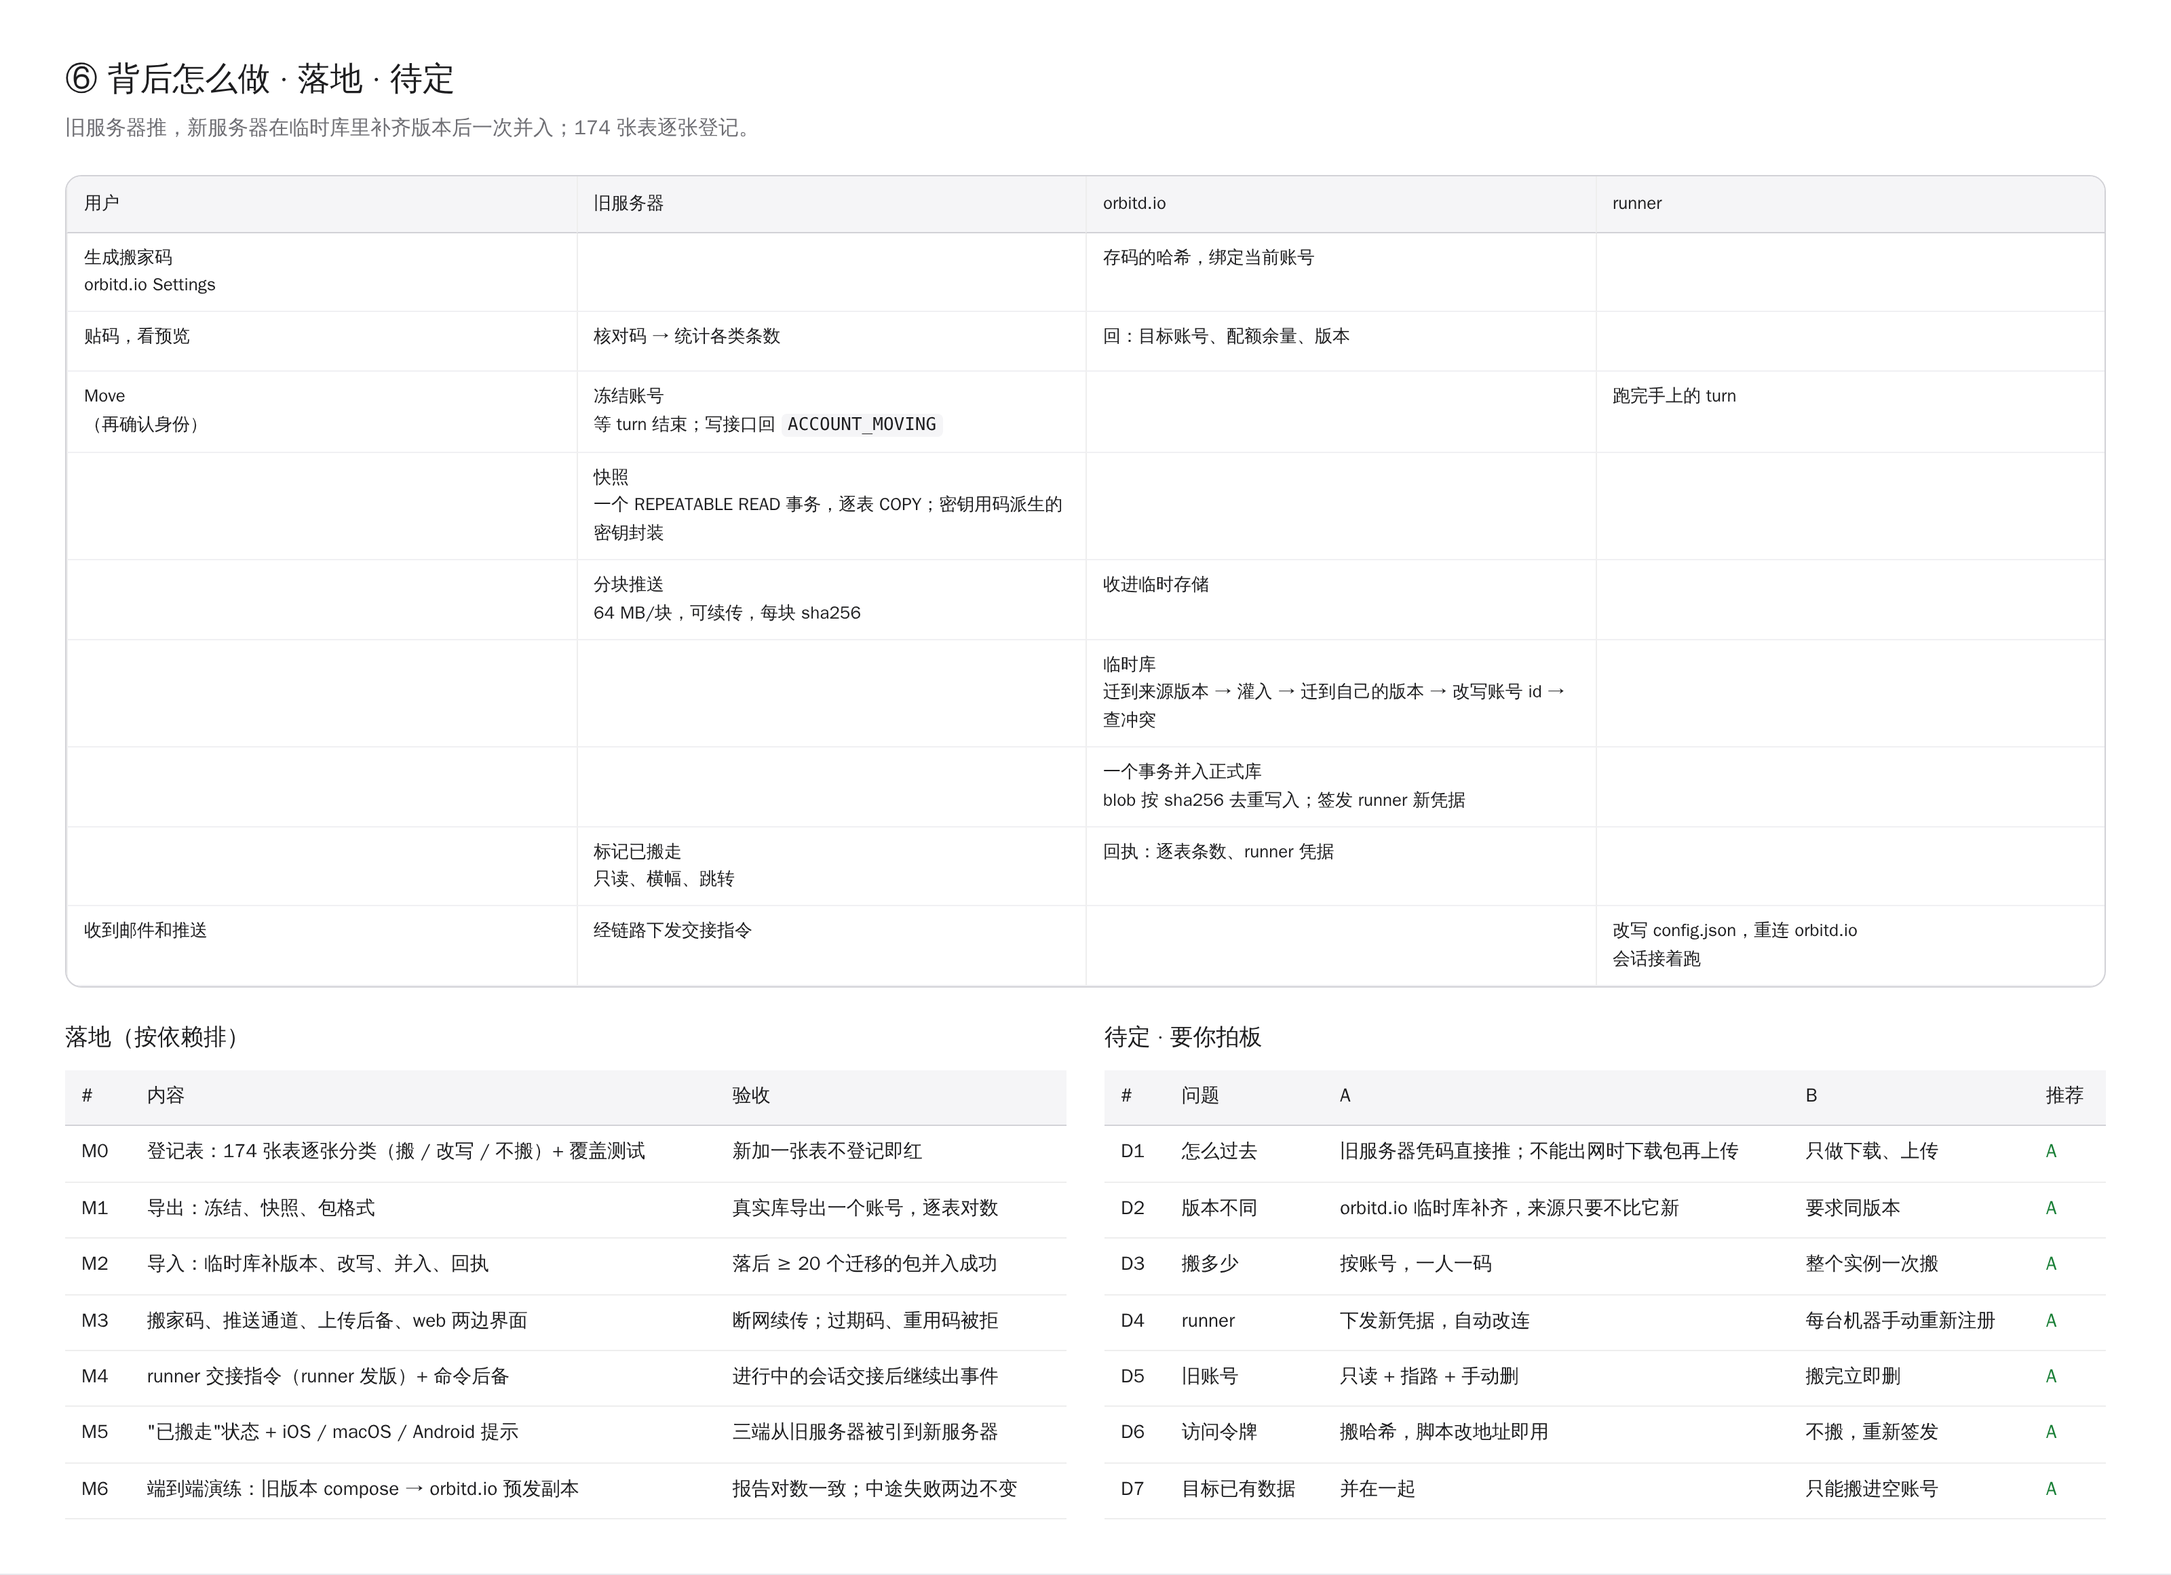
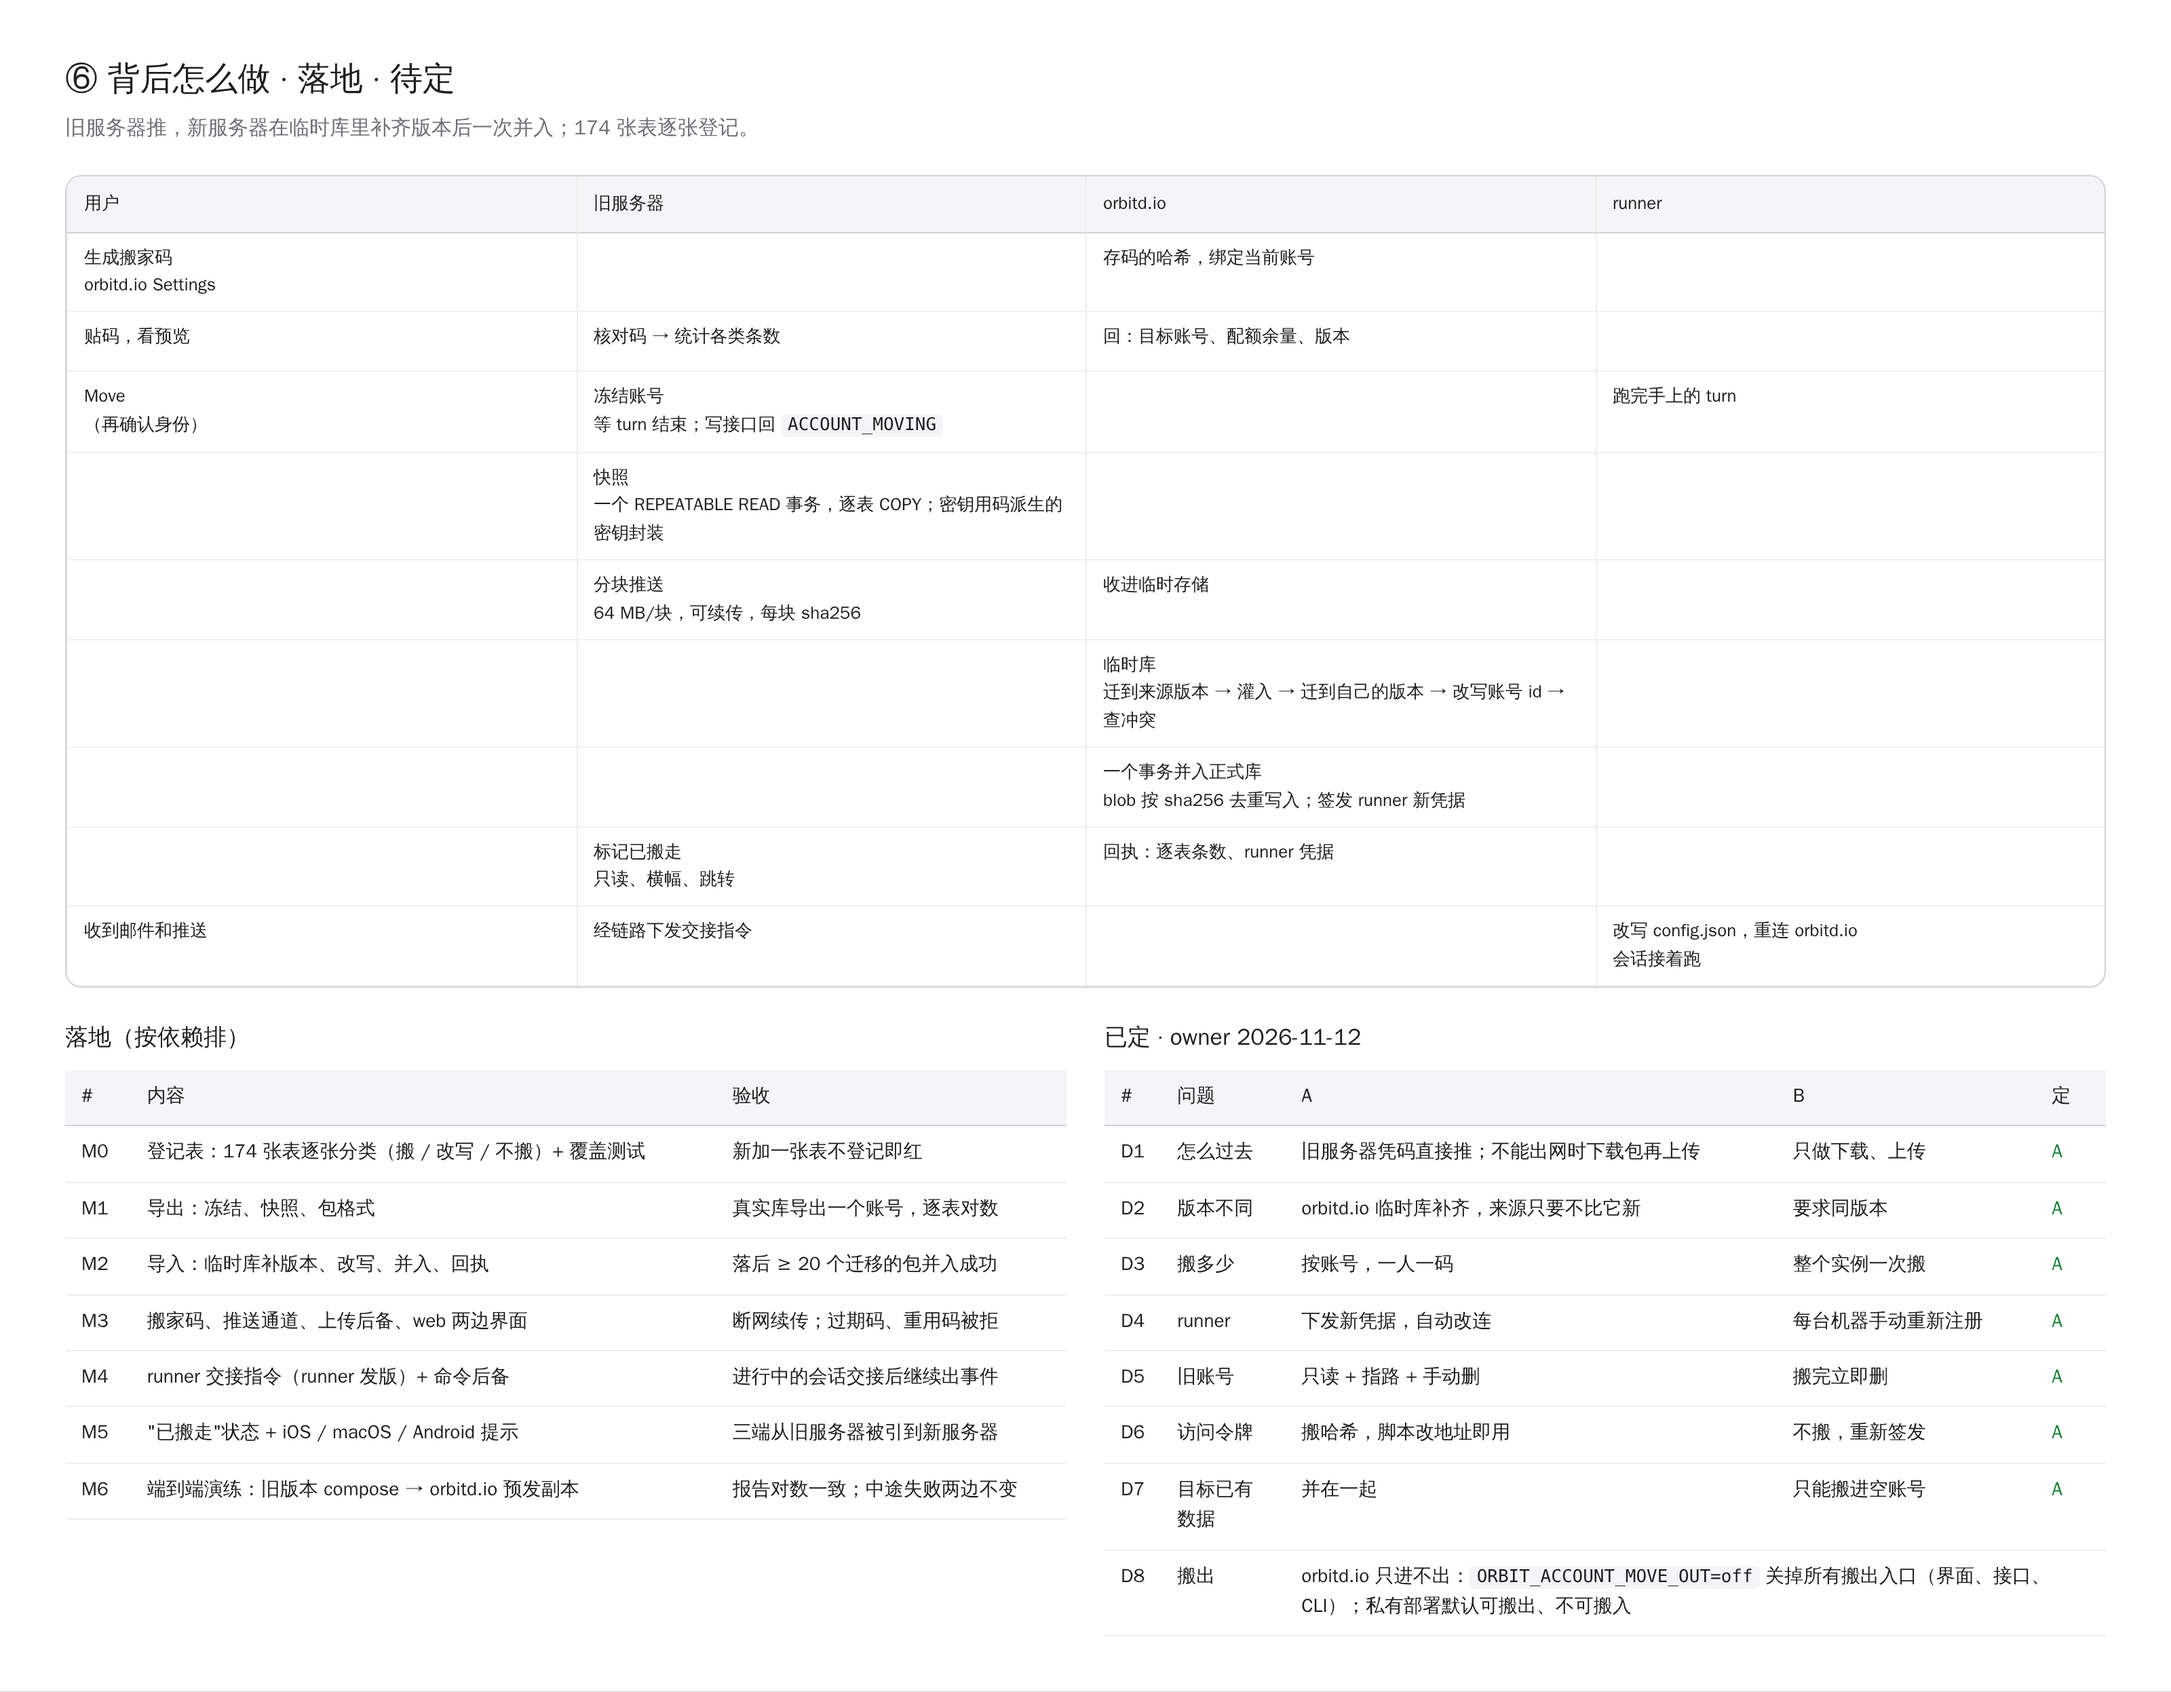
docs: account move decisions, orbitd.io takes moves in but never out

diff --git a/docs/mocks/account-move/01-board.html b/docs/mocks/account-move/01-board.html
@@ -336,9 +336,9 @@
       </table>
     </div>
     <div>
-      <h3>待定 · 要你拍板</h3>
+      <h3>已定 · owner 2026-11-12</h3>
       <table class="b-t">
-        <tr><th>#</th><th>问题</th><th>A</th><th>B</th><th>推荐</th></tr>
+        <tr><th>#</th><th>问题</th><th>A</th><th>B</th><th>定</th></tr>
         <tr><td>D1</td><td>怎么过去</td><td>旧服务器凭码直接推；不能出网时下载包再上传</td><td>只做下载、上传</td><td class="b-rec">A</td></tr>
         <tr><td>D2</td><td>版本不同</td><td>orbitd.io 临时库补齐，来源只要不比它新</td><td>要求同版本</td><td class="b-rec">A</td></tr>
         <tr><td>D3</td><td>搬多少</td><td>按账号，一人一码</td><td>整个实例一次搬</td><td class="b-rec">A</td></tr>
@@ -346,6 +346,7 @@
         <tr><td>D5</td><td>旧账号</td><td>只读 + 指路 + 手动删</td><td>搬完立即删</td><td class="b-rec">A</td></tr>
         <tr><td>D6</td><td>访问令牌</td><td>搬哈希，脚本改地址即用</td><td>不搬，重新签发</td><td class="b-rec">A</td></tr>
         <tr><td>D7</td><td>目标已有数据</td><td>并在一起</td><td>只能搬进空账号</td><td class="b-rec">A</td></tr>
+        <tr><td>D8</td><td>搬出</td><td colspan="3"><b>orbitd.io 只进不出</b>：<code>ORBIT_ACCOUNT_MOVE_OUT=off</code> 关掉所有搬出入口（界面、接口、CLI）；私有部署默认可搬出、不可搬入</td></tr>
       </table>
     </div>
   </div>

diff --git a/docs/account-move-design.md b/docs/account-move-design.md
@@ -1,6 +1,6 @@
 # 把账号从私有部署搬到 orbitd.io（设计稿）
 
-> 状态：草稿，2026-11-12，待 owner 拍板 §9 的 D1–D7。本文只做设计，不改代码。
+> 状态：已定，2026-11-12。owner 定 §9 的 D1–D7 全部按推荐（A），并追加一条约束：**orbitd.io 不允许把数据搬到外部站点**（§2.4、D8）。本文只做设计，不改代码。
 > 效果图：`docs/mocks/account-move/01-board.html` 与 `01-board-1.png` … `01-board-6.png`。
 > 相关：`self-hosting.md`、`postgres-backup-restore.md`、`public-id-migration-design.md`、`runner-link-design.md`、
 > `runner-update-drain-design.md`。
@@ -76,6 +76,25 @@ import`）。任务、项目、证据、wiki、附件、会话事件都留在旧
 - 搬家码过期或已用：要求在 orbitd.io 重新生成。
 - 旧服务器版本比 orbitd.io 新（极少见）：提示等 orbitd.io 升级。
 - 超出 orbitd.io 的存储配额：预览阶段就拦下，告诉差多少。
+
+### 2.4 只进不出：orbitd.io 不允许搬走（owner 2026-11-12）
+
+搬家分两个方向，各由一个部署开关控制：
+
+| 开关 | 含义 | 私有部署默认 | orbitd.io |
+|---|---|---|---|
+| `ORBIT_ACCOUNT_MOVE_OUT` | 本服务器的账号可以搬到别处 | on | **off** |
+| `ORBIT_ACCOUNT_MOVE_IN` | 本服务器可以签发搬家码、接收搬来的数据 | off | on |
+
+`MOVE_OUT` 为 off 时，所有搬出入口一起关，不留旁路：
+
+- Settings 里不显示 "Move to another Orbit"，也不显示下载搬家包；
+- 导出接口（预览、打包、推送、下载）一律回 403 `ACCOUNT_MOVE_OUT_DISABLED`，`orbit-admin account export` 同样拒绝；
+- 搬家码核对接口本来就在接收方，与此无关。
+
+`MOVE_IN` 在私有部署默认关，所以搬家码只能在 orbitd.io 上生成，私有部署之间不会互相搬，除非管理员自己打开。
+开关读环境变量，不放进库里的设置：改它要动部署文件，界面上没有人能把它打开。M0 的覆盖测试同时检查：每个导出
+路由都过这道开关。
 
 ## 3. 架构
 
@@ -188,14 +207,14 @@ import`）。任务、项目、证据、wiki、附件、会话事件都留在旧
 | 编号 | 内容 | 验收 |
 |---|---|---|
 | M0 | 登记表：174 张表逐张分类、归属条件、要改写的列；覆盖测试（新表未登记即红） | 测试在 main 上绿；故意加一张表变红 |
-| M1 | 导出：冻结、快照、包格式、manifest 核对；`orbit-admin account export` CLI | 真实库上导出一个账号，逐表计数与 SQL 一致 |
-| M2 | 导入：临时库补版本、改写归属、冲突、并入、回执 | 旧版本（落后 ≥ 20 个迁移）的包并入新库，逐表对数，抽样页面打开正常 |
+| M1 | 导出：冻结、快照、包格式、manifest 核对；`orbit-admin account export` CLI；`ORBIT_ACCOUNT_MOVE_OUT` 开关 | 真实库上导出一个账号，逐表计数与 SQL 一致；开关为 off 时每个导出路由回 403 |
+| M2 | 导入：临时库补版本、改写归属、冲突、并入、回执；`ORBIT_ACCOUNT_MOVE_IN` 开关 | 旧版本（落后 ≥ 20 个迁移）的包并入新库，逐表对数，抽样页面打开正常 |
 | M3 | 搬家码、推送通道（可续传）、下载/上传后备、两边的进度与预览界面（web） | 断网续传；搬家码过期、重复使用被拒 |
 | M4 | runner 交接指令（runner 发版）+ 旧 runner 的命令后备 | 进行中的 Claude 会话在交接后继续出事件，无丢失 |
 | M5 | 旧账号"已搬走"状态：只读、横幅、跳转、`ACCOUNT_MOVED`；iOS / macOS / Android 的提示 | 三端各一次真实登录旧服务器后被引到新服务器 |
 | M6 | 端到端演练：旧版本 compose 部署 → orbitd.io 的预发副本，含 2 台 runner、1 个进行中会话、附件、密钥 | 报告对数一致；runner 自动切换；回滚演练（中途失败两边不变） |
 
-## 9. 待定 · 要你拍板
+## 9. 决定（owner 2026-11-12：D1–D7 取 A，追加 D8）
 
 | # | 问题 | A | B | 推荐 |
 |---|---|---|---|---|
@@ -206,3 +225,4 @@ import`）。任务、项目、证据、wiki、附件、会话事件都留在旧
 | D5 | 旧账号搬完怎么办 | 只读 + 指路 + 用户手动删除 | 搬完立即删除 | **A**（给用户核对的余地，且旧链接还能跳转） |
 | D6 | 个人访问令牌 | 搬哈希，脚本改地址即可用 | 不搬，到 orbitd.io 重新签发 | **A** |
 | D7 | 目标账号已有数据 | 并到一起，预览里说明 | 只允许搬进空账号 | **A**（UUID 不会撞，并到一起没有风险） |
+| D8 | 搬出 | — | — | **orbitd.io 只进不出**：`ORBIT_ACCOUNT_MOVE_OUT=off`，见 §2.4 |
